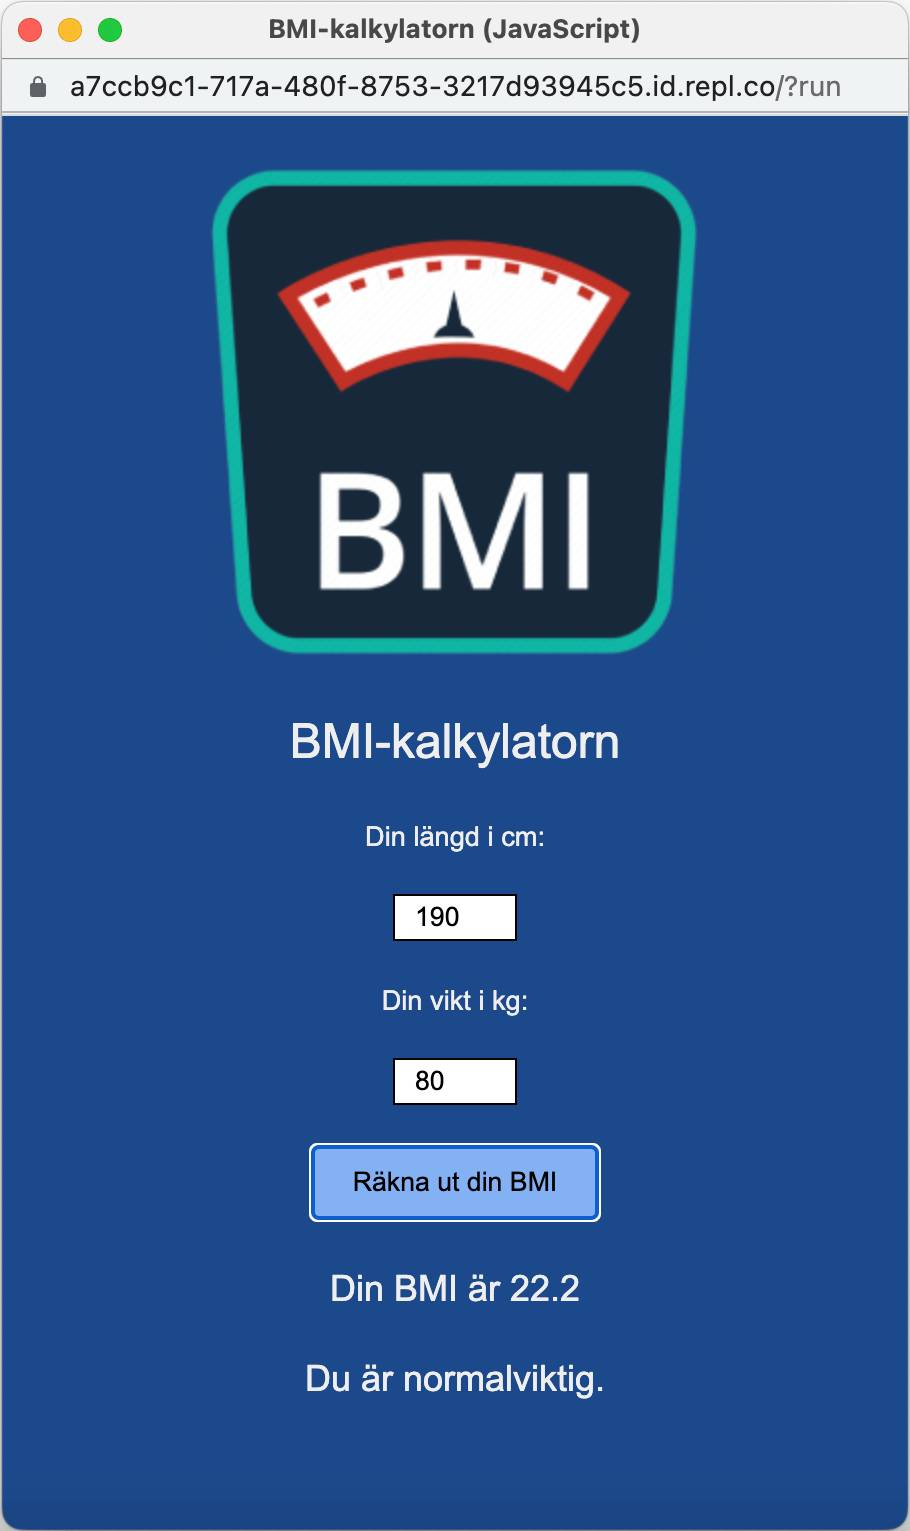
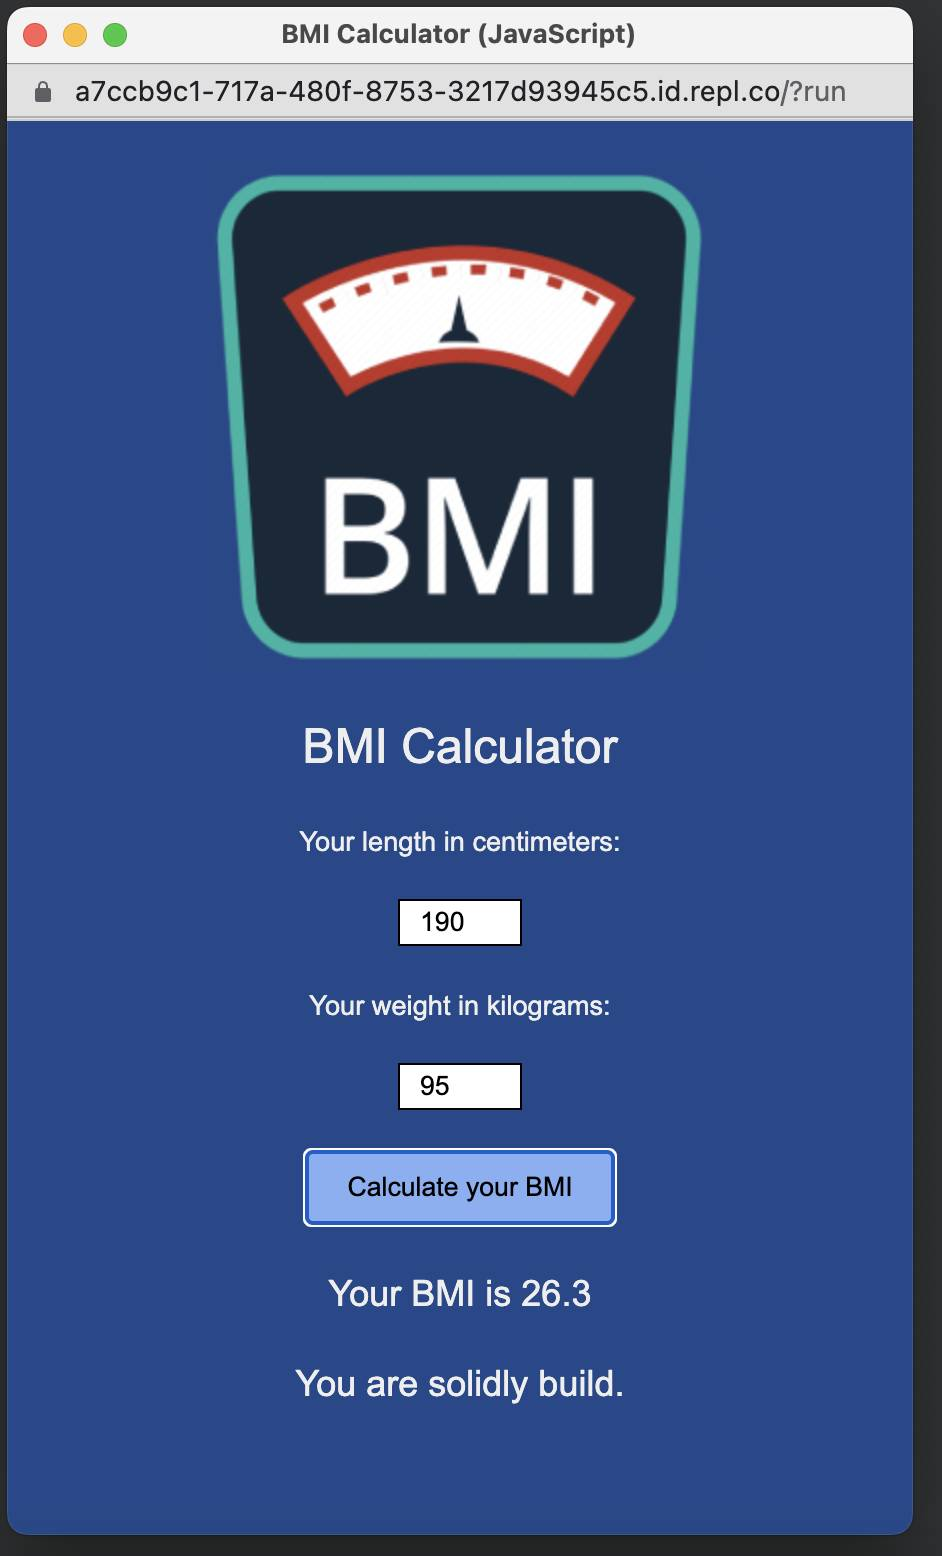
And now we are fulle bilingual.

Changed region(s): [[0.0, 0.0, 1.0, 1.0], [0.3077, 0.4605, 0.6769, 0.921]]

diff --git a/public/examples/bmi-with-gui-js/app.js b/public/examples/bmi-with-gui-js/app.js
@@ -10,10 +10,10 @@ let calculateBMI = (lengthInCm, weigthInKg) =>
   +(weigthInKg / ((lengthInCm / 100) ** 2)).toFixed(1);
 
 // Function for assessing BMI (as an arrow function)
-let assessBMI = bmi => 'Du är ' + (
-  bmi > 30.0 ? 'fet' :
-  bmi > 25.0 ? 'överviktig' :
-  bmi >= 18.5 ? 'normalviktig' : 'underviktig'
+let assessBMI = bmi => 'You are ' + (
+  bmi > 30.0 ? 'big and beautiful' :
+  bmi > 25.0 ? 'solidly build' :
+  bmi >= 18.5 ? 'of medium weight' : 'easily carried'
 ) + '.';
 
 // Function to run when clicking the calculate button:
@@ -24,25 +24,25 @@ function calculate() {
     +$('.kg').value
   );
   result = !result || isNaN(result) ?
-    'svår att räkna ut.' : result;
-  $('.result').innerHTML = 'Din BMI är ' + result;
-  $('.assess').innerHTML = (result + '').includes('svår') ?
+    'hard to calculate.' : result;
+  $('.result').innerHTML = 'Your BMI is ' + result;
+  $('.assess').innerHTML = (result + '').includes('hard') ?
     '' : assessBMI(result);
 }
 
 // Create GUI: Create a window + define HTML elements
 let health_icon_image = 'health-icon.png';
-createWindow($, 'BMI-kalkylatorn (JavaScript)', 75, 30, /*html*/`
+createWindow($, 'BMI Calculator (JavaScript)', 75, 30, /*html*/`
   <img style="margin-top:15px" src="${health_icon_image}">
-  <h3>BMI-kalkylatorn</h3>
-  <label>Din längd i cm:
+  <h3>BMI Calculator</h3>
+  <label>Your length in centimeters:
     <input class="cm" type="number">
   </label>
-  <label>Din vikt i kg:
+  <label>Your weight in kilograms:
     <input class="kg" type="number">
   </label>
   <button class="calculate">
-    Räkna ut din BMI</button>
+    Calculate your BMI</button>
   <h4 class="result"></h4>
   <h4 class="assess"></h4>
 `);

diff --git a/src/main.js b/src/main.js
@@ -75,7 +75,7 @@ let go = (() => {
     'https://replit.com/@ThomasFrank4/Java-BMI-calc#Main.java',
     'https://replit.com/@ThomasFrank4/C-BMI-calc#main.cs',
     'https://replit.com/@ThomasFrank4/JS-BMI-calc-longOOP#index.js',
-    'hhttps://replit.com/@ThomasFrank4/JS-BMI-calc-longOOP-no-semis#index.js',
+    'https://replit.com/@ThomasFrank4/JS-BMI-calc-longOOP-no-semis#index.js',
     'https://replit.com/@ThomasFrank4/Python-BMI-calc-longOOP#main.py',
     'https://replit.com/@ThomasFrank4/JS-BMI-calc-short#index.js',
     'https://replit.com/@ThomasFrank4/JS-BMI-calc-short-no-semis#index.js',

diff --git a/public/style.css b/public/style.css
@@ -211,7 +211,7 @@ h1 {
 .img-link {
   display: block;
   text-align: center;
-  background: white;
+  background: rgb(45, 46, 47);
   padding: 20px 0;
   border-radius: 10px;
 }

diff --git a/public/examples/bmi-with-gui-python/main.py b/public/examples/bmi-with-gui-python/main.py
@@ -10,10 +10,10 @@ calculate_BMI = lambda lengthInCm, weigthInKg:\
   round(weigthInKg / ((lengthInCm / 100) ** 2), 1)
 
 # Function for assessing BMI (as a lambda)
-assess_BMI = lambda bmi: 'Du är ' + (
-  'fet' if bmi > 30.0 else
-  'överviktig' if bmi > 25.0 else
-  'normalviktig' if bmi >= 18.5 else 'underviktig'
+assess_BMI = lambda bmi: 'You are ' + (
+  'big and beautiful' if bmi > 30.0 else
+  'solidly build' if bmi > 25.0 else
+  'of medium weight' if bmi >= 18.5 else 'easily carried'
 ) + '.'
 
 # Function to run when clicking the calculate button:
@@ -25,24 +25,24 @@ def calculate() :
       float(widgets['cm'].get()),
       float(widgets['kg'].get())
     )
-  except: result = 'svår att räkna ut.'
-  widgets['result'].config(text = 'Din BMI är ' + str(result))
+  except: result = 'hard to calculate.'
+  widgets['result'].config(text = 'Your BMI is ' + str(result))
   widgets['assessment'].config(text = '' 
-    if 'svår' in str(result) else assess_BMI(result))
+    if 'hard' in str(result) else assess_BMI(result))
 
 # Create GUI: Create a window + add styling + define widgets
-win = create_window(tk, 'BMI-kalkylatorn (Python)', 75, 30)
+win = create_window(tk, 'BMI Calculator (Python)', 75, 30)
 setStyle(win)
 health_icon_image = tk.PhotoImage(file = 'health-icon.png')
 widgets = {
   'space': Label(win, text = ''),
   'healthIcon': Label(win, image = health_icon_image),
-  'headline': Label(win, text = 'BMI-kalkylatorn', style = 'Heading.TLabel'),
-  'length-label': Label(win, text = 'Din längd i cm:'),
+  'headline': Label(win, text = 'BMI Calculator', style = 'Heading.TLabel'),
+  'length-label': Label(win, text = 'Your length in centimeters:'),
   'cm': Entry(win, width = 5),
-  'weigth-label': Label(win, text='Din vikt i kg:'),
+  'weigth-label': Label(win, text='Your weight in kilograms:'),
   'kg': Entry(win, width = 5),
-  'calculate': Button(win, text = 'Räkna ut din BMI', command = calculate),
+  'calculate': Button(win, text = 'Calculate your BMI', command = calculate),
   'result': Label(win, style = 'Result.TLabel'),
   'assessment': Label(win, style = 'Result.TLabel')
 }

diff --git a/public/examples/c-sharp/Program.cs b/public/examples/c-sharp/Program.cs
@@ -10,10 +10,10 @@
     }
 
     public String AssessBMI(double bmi) {
-      return "Du är " + (
-        bmi > 30.0 ? "fet" :
-        bmi > 25.0 ? "överviktig" :
-        bmi >= 18.5 ? "normalviktig" : "underviktig"
+      return "You are " + (
+        bmi > 30.0 ? "big and beautiful" :
+        bmi > 25.0 ? "solidly build" :
+        bmi >= 18.5 ? "of medium weight" : "easily carried"
       ) + ".";
     }
 
@@ -27,21 +27,21 @@
 
     public double[] GetInput() {
       Console.Clear();
-      Console.WriteLine("BMI-kalkylatorn C#");
+      Console.WriteLine("BMI Calculator C#");
       Console.WriteLine("---------------------");
-      double cm = InputPosNumber("Ange din längd i cm:");
-      double kg = InputPosNumber("Ange din vikt i kg:");
+      double cm = InputPosNumber("Your length in centimeters:");
+      double kg = InputPosNumber("Your weight in kilograms:");
       return new double[] { cm, kg };
     }
 
     public Program() {
       double[] input = GetInput();
       double bmi = CalculateBMI(input[0], input[1]);
-      Console.WriteLine("Din BMI är " + bmi);
+      Console.WriteLine("\nYour BMI is " + bmi);
       Console.WriteLine(AssessBMI(bmi));
-      Console.WriteLine("\nIgen? (j/n)");
+      Console.WriteLine("\nAgain? (y/n)");
       string answer = Console.ReadLine();
-      if (answer != null && answer.ToLower()[0].Equals('j')) {
+      if (answer != null && answer.ToLower()[0].Equals('y')) {
         new Program();
       }
     }

diff --git a/public/examples/Main.java b/public/examples/Main.java
@@ -10,10 +10,10 @@ public class Main {
   }
 
   public String assessBMI(double bmi){
-    return "Du är " + (
-      bmi > 30.0 ? "fet" :
-      bmi > 25.0 ? "överviktig" :
-      bmi >= 18.5 ? "normalviktig" : "underviktig"
+    return "You are " + (
+      bmi > 30.0 ? "big and beautiful" :
+      bmi > 25.0 ? "solidly build" :
+      bmi >= 18.5 ? "of medium weight" : "easily carried"
     ) + ".";
   }
 
@@ -27,21 +27,21 @@ public class Main {
 
   public double[] getInput(){
     System.out.println("\n".repeat(60));
-    System.out.println("BMI-kalkylatorn Java");
+    System.out.println("BMI Calculator Java");
     System.out.println("---------------------");
-    double cm = inputPosNumber("Ange din längd i cm:");
-    double kg = inputPosNumber("Ange din vikt i kg:");
+    double cm = inputPosNumber("Your length in centimeters:");
+    double kg = inputPosNumber("Your weight in kilograms:");
     return new double[]{cm, kg};
   }
 
   public Main() {
     double[] input = getInput();
     double bmi = calculateBMI(input[0], input[1]);
-    System.out.println("Din BMI är " + bmi);
+    System.out.println("\nYour BMI is " + bmi);
     System.out.println(assessBMI(bmi));
-    System.out.println("\nIgen? (j/n)");
+    System.out.println("\nAgain? (y/n)");
     String answer = in.nextLine();
-    if(answer.matches("(?i)^j.*")){
+    if(answer.matches("(?i)^y.*")){
       new Main();
     }
   }

diff --git a/public/examples/bmi-long.py b/public/examples/bmi-long.py
@@ -11,11 +11,11 @@ class Main:
     1)
 
   def assess_BMI(self, bmi): 
-    return 'Du är ' + (
-      'fet' if bmi > 30.0 else
-      'överviktig' if bmi > 25.0 else
-      'normalviktig' if bmi >= 18.5 else 
-      'underviktig'
+    return 'You are ' + (
+      'big and beautiful' if bmi > 30.0 else
+      'solidly build' if bmi > 25.0 else
+      'of medium weight' if bmi >= 18.5 else 
+      'easily carried'
     ) + '.'
 
   def input_pos_number(self, question):
@@ -29,20 +29,20 @@ class Main:
   def get_input(self):
     system('cls' if os_name == 'nt'\
       else 'clear')
-    print('BMI-kalkylatorn Python (long)')
+    print('BMI Calculator Python (long)')
     print('-----------------------------')
-    cm = self.input_pos_number('Ange din längd i cm: ')
-    kg = self.input_pos_number('Ange din vikt i kg: ')
+    cm = self.input_pos_number('Your length in centimeters: ')
+    kg = self.input_pos_number('Your weight in kilograms: ')
     return [cm, kg]
 
   def __init__(self):
     answers = self.get_input()
     bmi = self.calculate_BMI(*answers)
-    print('\nDin BMI är ' + str(bmi))
+    print('\nYour BMI is ' + str(bmi))
     assessment = self.assess_BMI(bmi)
     print(assessment)
-    answer = input('\nIgen? (j/n) ')
-    regex = r'(?i)^j'
+    answer = input('\nAgain? (y/n) ')
+    regex = r'(?i)^y'
     if re.match(regex, answer):
       Main()
 

diff --git a/public/examples/bmi-short.py b/public/examples/bmi-short.py
@@ -4,10 +4,10 @@ import re; from os import system, name as os_name
 calculate_BMI = lambda lengthInCm, weigthInKg:\
   round(weigthInKg / ((lengthInCm / 100) ** 2), 1)
 
-assess_BMI = lambda bmi: 'Du är ' + (
-  'fet' if bmi > 30.0 else
-  'överviktig' if bmi > 25.0 else
-  'normalviktig' if bmi >= 18.5 else 'underviktig'
+assess_BMI = lambda bmi: 'You are ' + (
+  'big and beautiful' if bmi > 30.0 else
+  'solidly build' if bmi > 25.0 else
+  'of medium weight' if bmi >= 18.5 else 'easily carried'
 ) + '.'
 
 def input_pos_number(question):
@@ -17,16 +17,16 @@ def input_pos_number(question):
 
 def get_input():
   system('cls' if os_name == 'nt' else 'clear')
-  print('BMI-kalkylatorn Python (short)\n' + '-' * 30)
+  print('BMI Calculator Python (short)\n' + '-' * 30)
   return map(input_pos_number, [
-    'Ange din längd i cm: ', 
-    'Ange din vikt i kg: '
+    'Your length in centimeters: ', 
+    'Your weight in kilograms: '
   ])
 
 def main():
   bmi = calculate_BMI(*get_input())
-  print(f'\nDin BMI är {bmi}\n{assess_BMI(bmi)}\n')
-  if re.match(r'(?i)^j', input('Igen? (j/n)')):
+  print(f'\nYour BMI is {bmi}\n{assess_BMI(bmi)}\n')
+  if re.match(r'(?i)^y', input('Again? (y/n)')):
     main()
 
 main()

diff --git a/public/explanations-en.md b/public/explanations-en.md
@@ -2,55 +2,55 @@
 # 0
 **Java** (1994) and **C#** (2000) are fundamentally very similar. They are both strongly typed compiled languages and share class-based OOP as a common starting point.
 
-Microsoft designed **C#** as a direct response to, and to compete with, **Java**. Since they had something to compare it to, some things became a little better/less verbose.
+Microsoft designed **C#** as a direct response to, and to compete with, **Java**. Since they had something to compare with, some things became a little better/less verbose.
 
 *Note:* In **C#**, unlike in **Java**, method names begin with a capital letter.
 
 *These languages provide a safe, but somewhat rigid, suit for how you should code.* 👔
 
 # 1
-**Java** (Sun, 1994) and **JavaScript** (Netscape, 1994) are quite different languages - despite the common "*Java*" in the name which comes from *Sun* and *Netscape* having a business partnership and thought it would be smart to promote **JavaScript** as the little brother of **Java**.
+**Java** (Sun, 1994) and **JavaScript** (Netscape, 1994) are quite different languages - despite the common "*Java*" in the name which comes from *Sun* and *Netscape* having a business partnership at the time and thinking it would be smart to promote **JavaScript** as the smaller sibling of **Java**.
 
 **JavaScript** is a loosely typed language and originally had no class syntax.
 
-For a long time (2015), however, there are classes in place in the language and if you want, you can write it very traditionally and Java-like, minus data type declarations, which we have done here.
+For a long time (2015), however, there are classes in place in the language and if you want to, you can write it very traditionally and Java-like, minus data type declarations, like we have done here.
 
-*Note*: In JavaScript, the constructor is always named *constructor* regardless of class name and **this** is mandatory to access class members (fields and methods). ☕
+*Note*: In JavaScript, the constructor is always named *constructor* regardless of class name and **this** is a mandatory prefix when you access class members (fields and methods). ☕
 
 # 2
-**JavaScript** (1994) and **Python** (1991) are both loosely typed languages that can be written class-based, if desired. Here we do it, although the code will be slightly longer than if we were to ignore the classes.
+**JavaScript** (1994) and **Python** (1991) are both loosely typed languages that can be written class-based, if you want to. Here are using the class based syntax, although the code will be slightly longer than if we were to write it without classes.
 
-Whereas **JavaScript** has a basic syntax with curly brackets/gullwings for program blocks, semi-colons for line endings (optional/if desired), etc. similar to **Java** and **C#**, **Python** chooses instead to use indentation to separate program blocks.
+Whereas **JavaScript** has a basic syntax with curly brackets/braces for program blocks, semi-colons for line endings (optional/if desired), etc. similar to **Java** and **C#**, **Python** chooses to rely solely on indention in order to separate program blocks.
 
 **Note:**
 * In **JavaScript** we use *this.methodName* to refer to methods in the class. In **Python** we use *self.methodName* instead.
-* In **Python** we must allow all methods in the class to receive *self* as an argument, but omit this argument when we call them.
-* The constructor of a class is called *constructor* in **JavaScript** and <span class="init-in-py">*__init__*</span> in **Python**
+* In **Python** we must all methods in the class must to receive *self* as their first argument, but you omit this argument when you call them.
+* The constructor of a class is called *constructor* in **JavaScript** and <span class="init-in-py">*__init__*</span> in **Python**.
 * In **Python** we *do* not write **new** in front of the class name when creating a new instance of the class.
-* In **Python** snake-casing is preferred, i.e. underscores, to separate words in variable, method and function names. In many other languages (such as **Java**, **C#** and **JavaScript**) *camelCasing* is the default. 🐫
+* In **Python** snake-casing is preferred, i.e. underscores, to separate words in the names of variables, methods and functions. In many other languages (such as **Java**, **C#** and **JavaScript**) *camelCasing* is the default. 🐫
 
 # 3
-**JavaScript** (1994) and **Python** (1991) are both loosely typed languages and have in common that they are easy to "play" with data types in them, and they require minimal syntax to create lists, hashmaps etc .
+**JavaScript** (1994) and **Python** (1991) are both loosely typed languages and have in common that they are easy to "play" with data types in them, and that they only require a minimalistic syntax to create lists, hashmaps etc.
 
-Whereas **JavaScript** has a basic syntax with curly brackets/gullwings for program blocks, semi-colons for line breaks, etc. similar to **Java** and **C#**, **Python** chooses instead to use indentation to separate program blocks.
+Whereas **JavaScript** has a basic syntax with curly brackets/braces for program blocks, semi-colons for line endings (optional/if desired), etc. similar to **Java** and **C#**, **Python** chooses to rely solely on indention in order to separate program blocks.
 
 The languages can both be used with or without classes - here an example without classes in both languages, which results in shorter and more compact code.
 
-(**Python** has, for better or worse, a slightly greater need for type conversions than JavaScript.)
+(For better or wors **Python** has a slightly greater need for explicit type conversions than JavaScript.)
 
-*No fine suit needed, full load!* 🎉
+*No dressing up needed, come as you are!* 🎉
 
 # 4
-**JavaScript** was originally designed to run in browsers and complement **HTML** (a content markup language) and **CSS** (a rules-based language for styling elements on web pages). Thus, it is natural that graphical interfaces for JavaScript programs are created with **HTML** and **CSS**.
+**JavaScript** was originally designed to run in browsers and complement **HTML** (a markup language) and **CSS** (a rules-based language for styling elements on web pages). Thus, it is natural that graphical interfaces in JavaScript programs are created with **HTML** and **CSS**.
 
-**Python** has **TKinter** as its default GUI tool. It is a library built on top of **TK** (an open-source cross-platform tool) which is **widget**-based, ie. there are different kinds of graphic elements (*widgets*) - such as *labels/text*, *input fields* etc. to choose from to build their GUI.
+**Python** has **TKinter** as its default GUI tool. It is a library built on top of **TK** (an open-source cross-platform tool) which is **widget**-based, ie. there are different kinds of graphic elements (*widgets*) - such as *labels/text*, *input fields* etc. to choose from to build the GUI.
 
-This means that the approach to building graphical interfaces is quite different between languages. Even so, it is possible to create an example, like this one, where the code is comparable in structure and length.
+This means that the approach to building graphical interfaces is quite different between the two languages. Even so, it is possible to create an example, like this one, where the code is comparable in structure and length.
 
 *4 kilobytes of code x 2 should be enough for everyone?* 😛
 
 # 5
-*Python's* **window handling** is a bit longer than *JavaScript's*, as *Python* needs a function to start a so-called *Tkinter event loop* and show the window. Here, the code is also versioned depending on the operating system. On the other hand, **Python** does not need an *html* file to start up, which **JavaScript** in a browser always does.
+*Python's* **window handling** code is a bit longer than *JavaScript's*, as *Python* needs a function to start a so-called *Tkinter event loop* and show the window. On the other hand JavaScript needs a barebone HTML-file as its starting point.
 
 # 6
 ironboy's language comparisons

diff --git a/public/explanations-sv.md b/public/explanations-sv.md
@@ -9,7 +9,7 @@ Microsoft designade **C#** som ett direkt svar på, och för att konkurrera med,
 *De här språken ger en säker, men lite stel, kostym för hur man bör koda.* 👔
 
 # 1
-**Java** (Sun, 1994) och **JavaScript** (Netscape, 1994) är ganska olika språk - trots det gemensamma "*Java*" i namnet som kommer från att *Sun* och *Netscape* hade ett affärssamarbete och tänkte att det skulle vara smart att marknadsföra **JavaScript** som lillebror till **Java**.
+**Java** (Sun, 1994) och **JavaScript** (Netscape, 1994) är ganska olika språk - trots det gemensamma "*Java*" i namnet som kommer från att *Sun* och *Netscape* hade ett affärssamarbete och tänkte att det skulle vara smart att marknadsföra **JavaScript** som lillasyskon till **Java**.
 
 **JavaScript** är ett löst typat språk och hade ursprungligen ingen klassyntax.
 
@@ -24,10 +24,10 @@ Medan **JavaScript** har en grundsyntax med curly-brackets/måsvingar för progr
 
 **Notera:**
 * I **JavaScript** använder vi *this.methodName* för att referera till metoder i klassen. I **Python** använder vi istället *self.methodName*.
-* I **Python** måste vi låta alla metoder i klassen ta emot *self* som ett argument, men utelämnar detta argument när vi anropar dem.
-* Konstruktorn i en klass heter *constructor* i **JavaScript** och <span class="init-in-py">*__init__*</span> i **Python**
+* I **Python** måste vi låta alla metoder i klassen ta emot *self* som ett första argument, men utelämnar detta argument när vi anropar dem.
+* Konstruktorn i en klass heter *constructor* i **JavaScript** och <span class="init-in-py">*__init__*</span> i **Python**.
 * I **Python** skriver vi *inte* **new** framför klassnamnet när vi skapar en ny instans av klassen.
-* I **Python** föredrar man snake-casing, dvs. underscores, för att skilja ord i variabel-, metod- och funktionsnamn åt. I många andra språk(som **Java**, **C#** och **JavaScript**) är *camelCasing* standard. 🐫
+* I **Python** föredrar man snake-casing, dvs. underscores, för att skilja ord åt i namn på variabeler, metoder och funktioner. I många andra språk(som **Java**, **C#** och **JavaScript**) är *camelCasing* standard. 🐫
 
 # 3
 **JavaScript** (1994) och **Python** (1991) är båda löst typade språk och har gemensamt att de är lätt att "leka" med datatyper i dem, och de kräver minimial syntax för att skapa listor, hashmaps etc.
@@ -50,7 +50,7 @@ Detta gör att angreppssättet för att bygga grafiska gränssnitt är ganska ol
 *4 kilobyte kod x 2 borde vara nog för alla?* 😛
 
 # 5
-*Pythons* **window handling** är aningen längre än *JavaScripts*, då *Python* behöver en funktion för att starta en s.k. *Tkinter event loop* och visa fönstret. Här är koden dessutom versionerad beroende på operativsystem. Å andra sidan behöver **Python** ingen *html*-fil för att starta upp, vilket **JavaScript** i en webbläsare allltid behöver.
+*Pythons* **window handling** är aningen längre än *JavaScripts*, då *Python* behöver en funktion för att starta en s.k. *Tkinter event loop* och visa fönstret. Å andra sidan behöver JavaScript en minimal HTML-fil som startpunkt.
 
 # 6
 ironboys språkjämförelser
